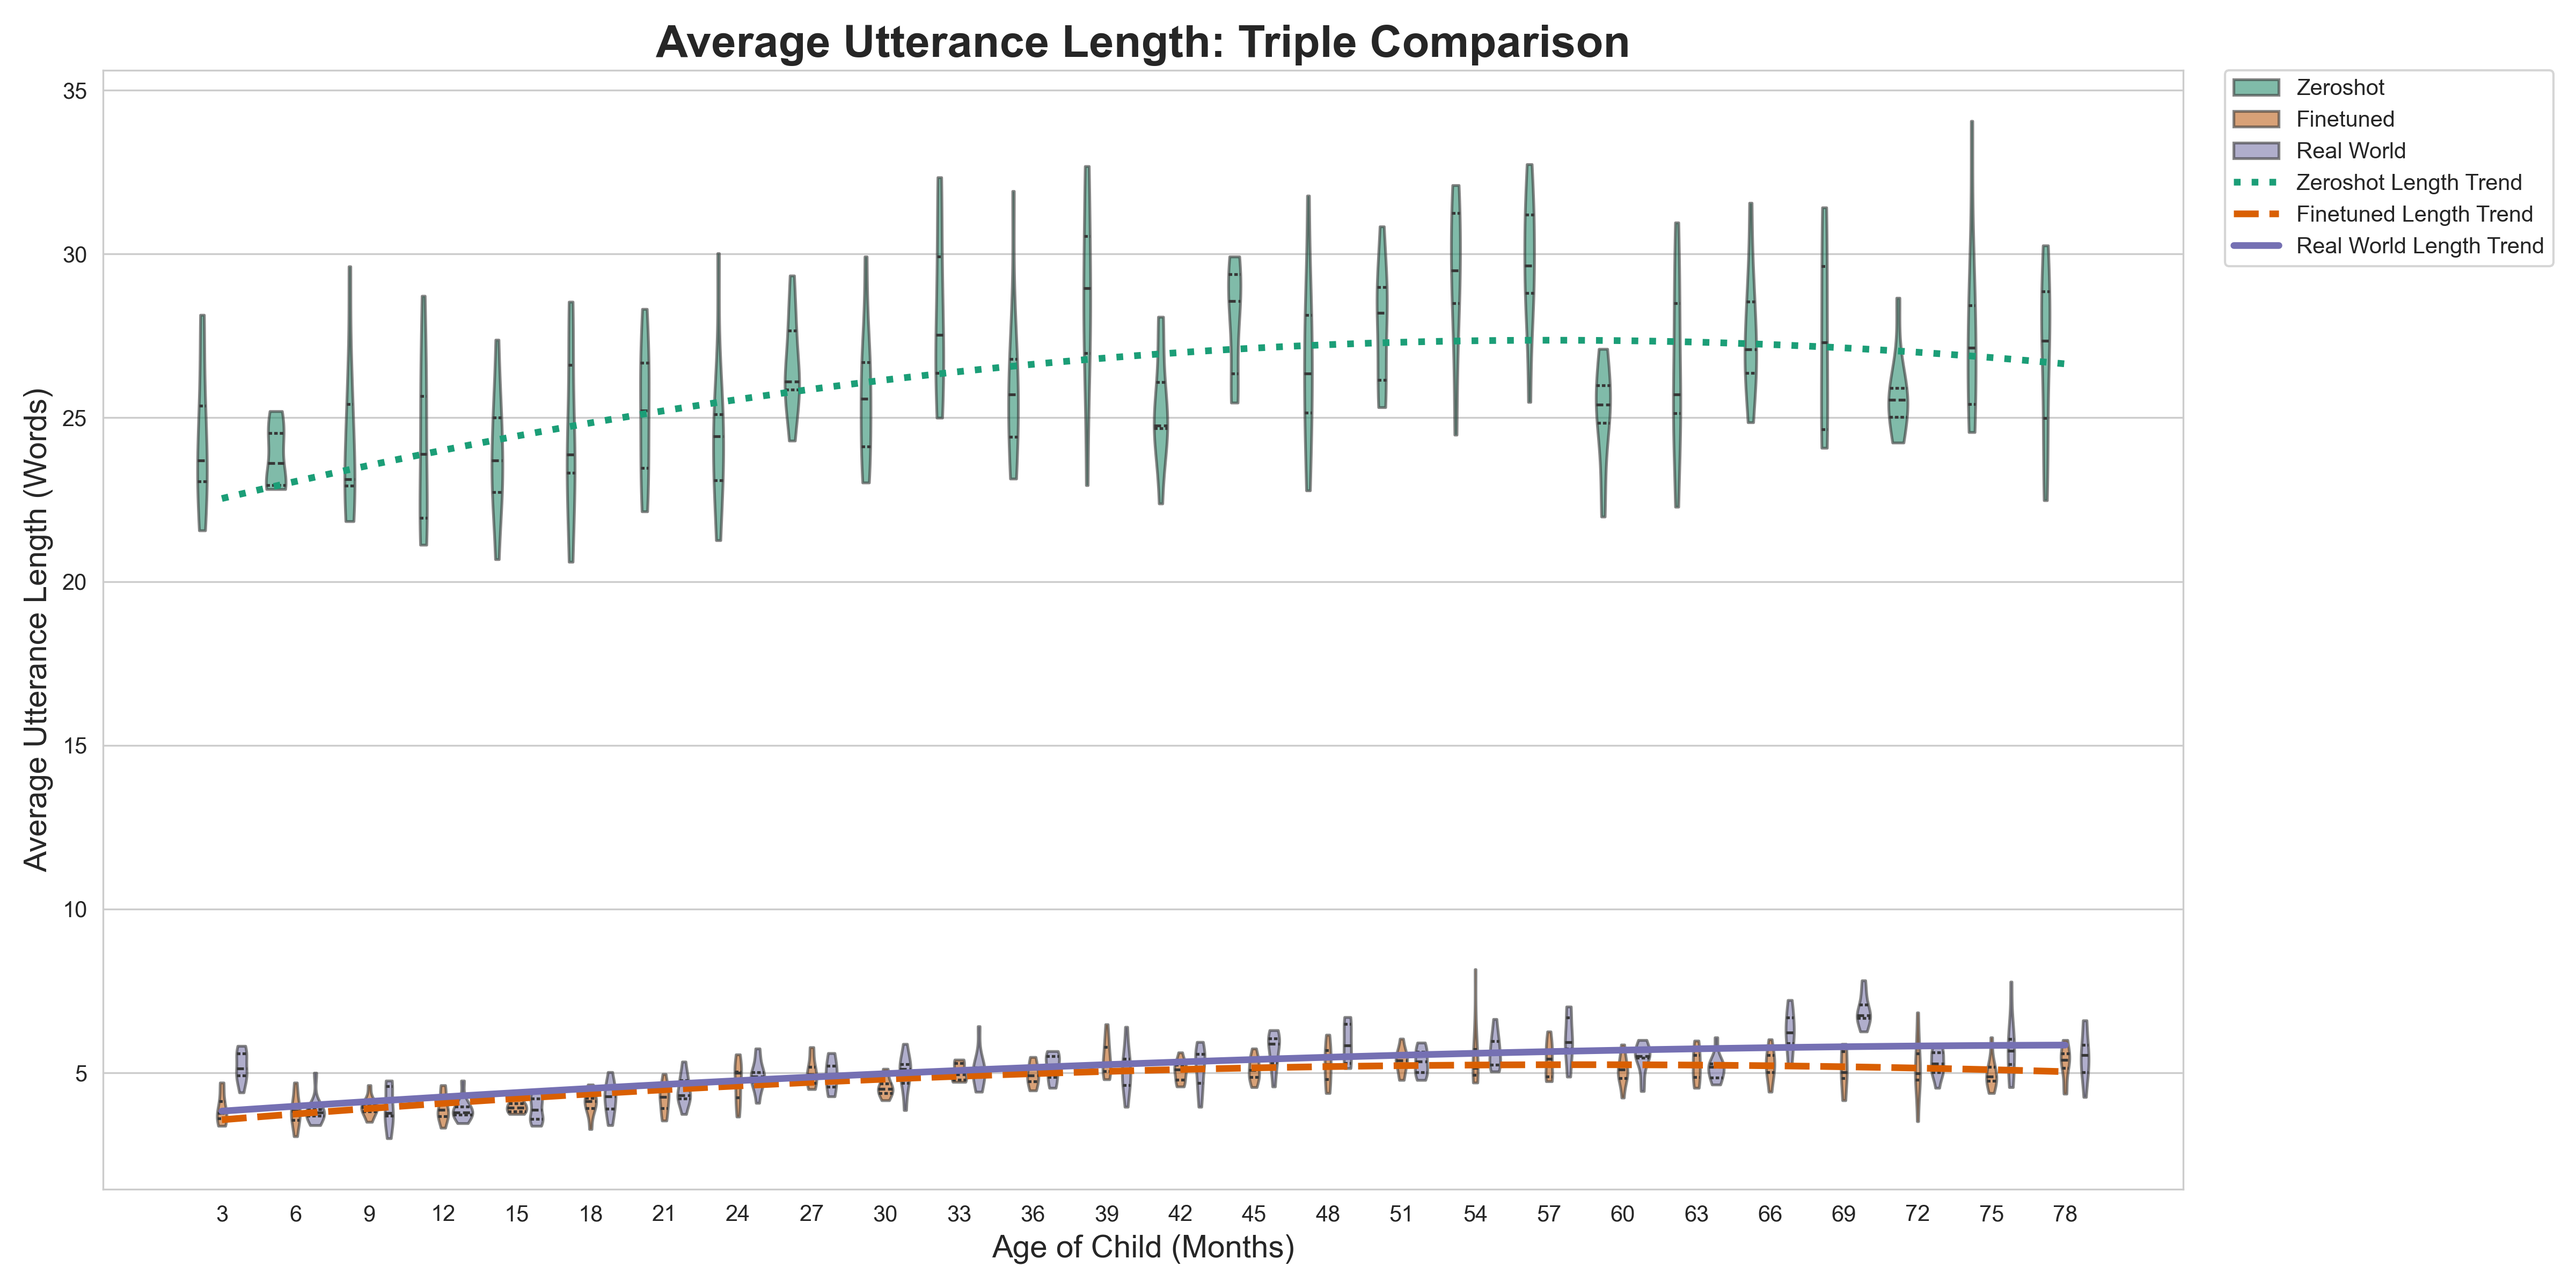
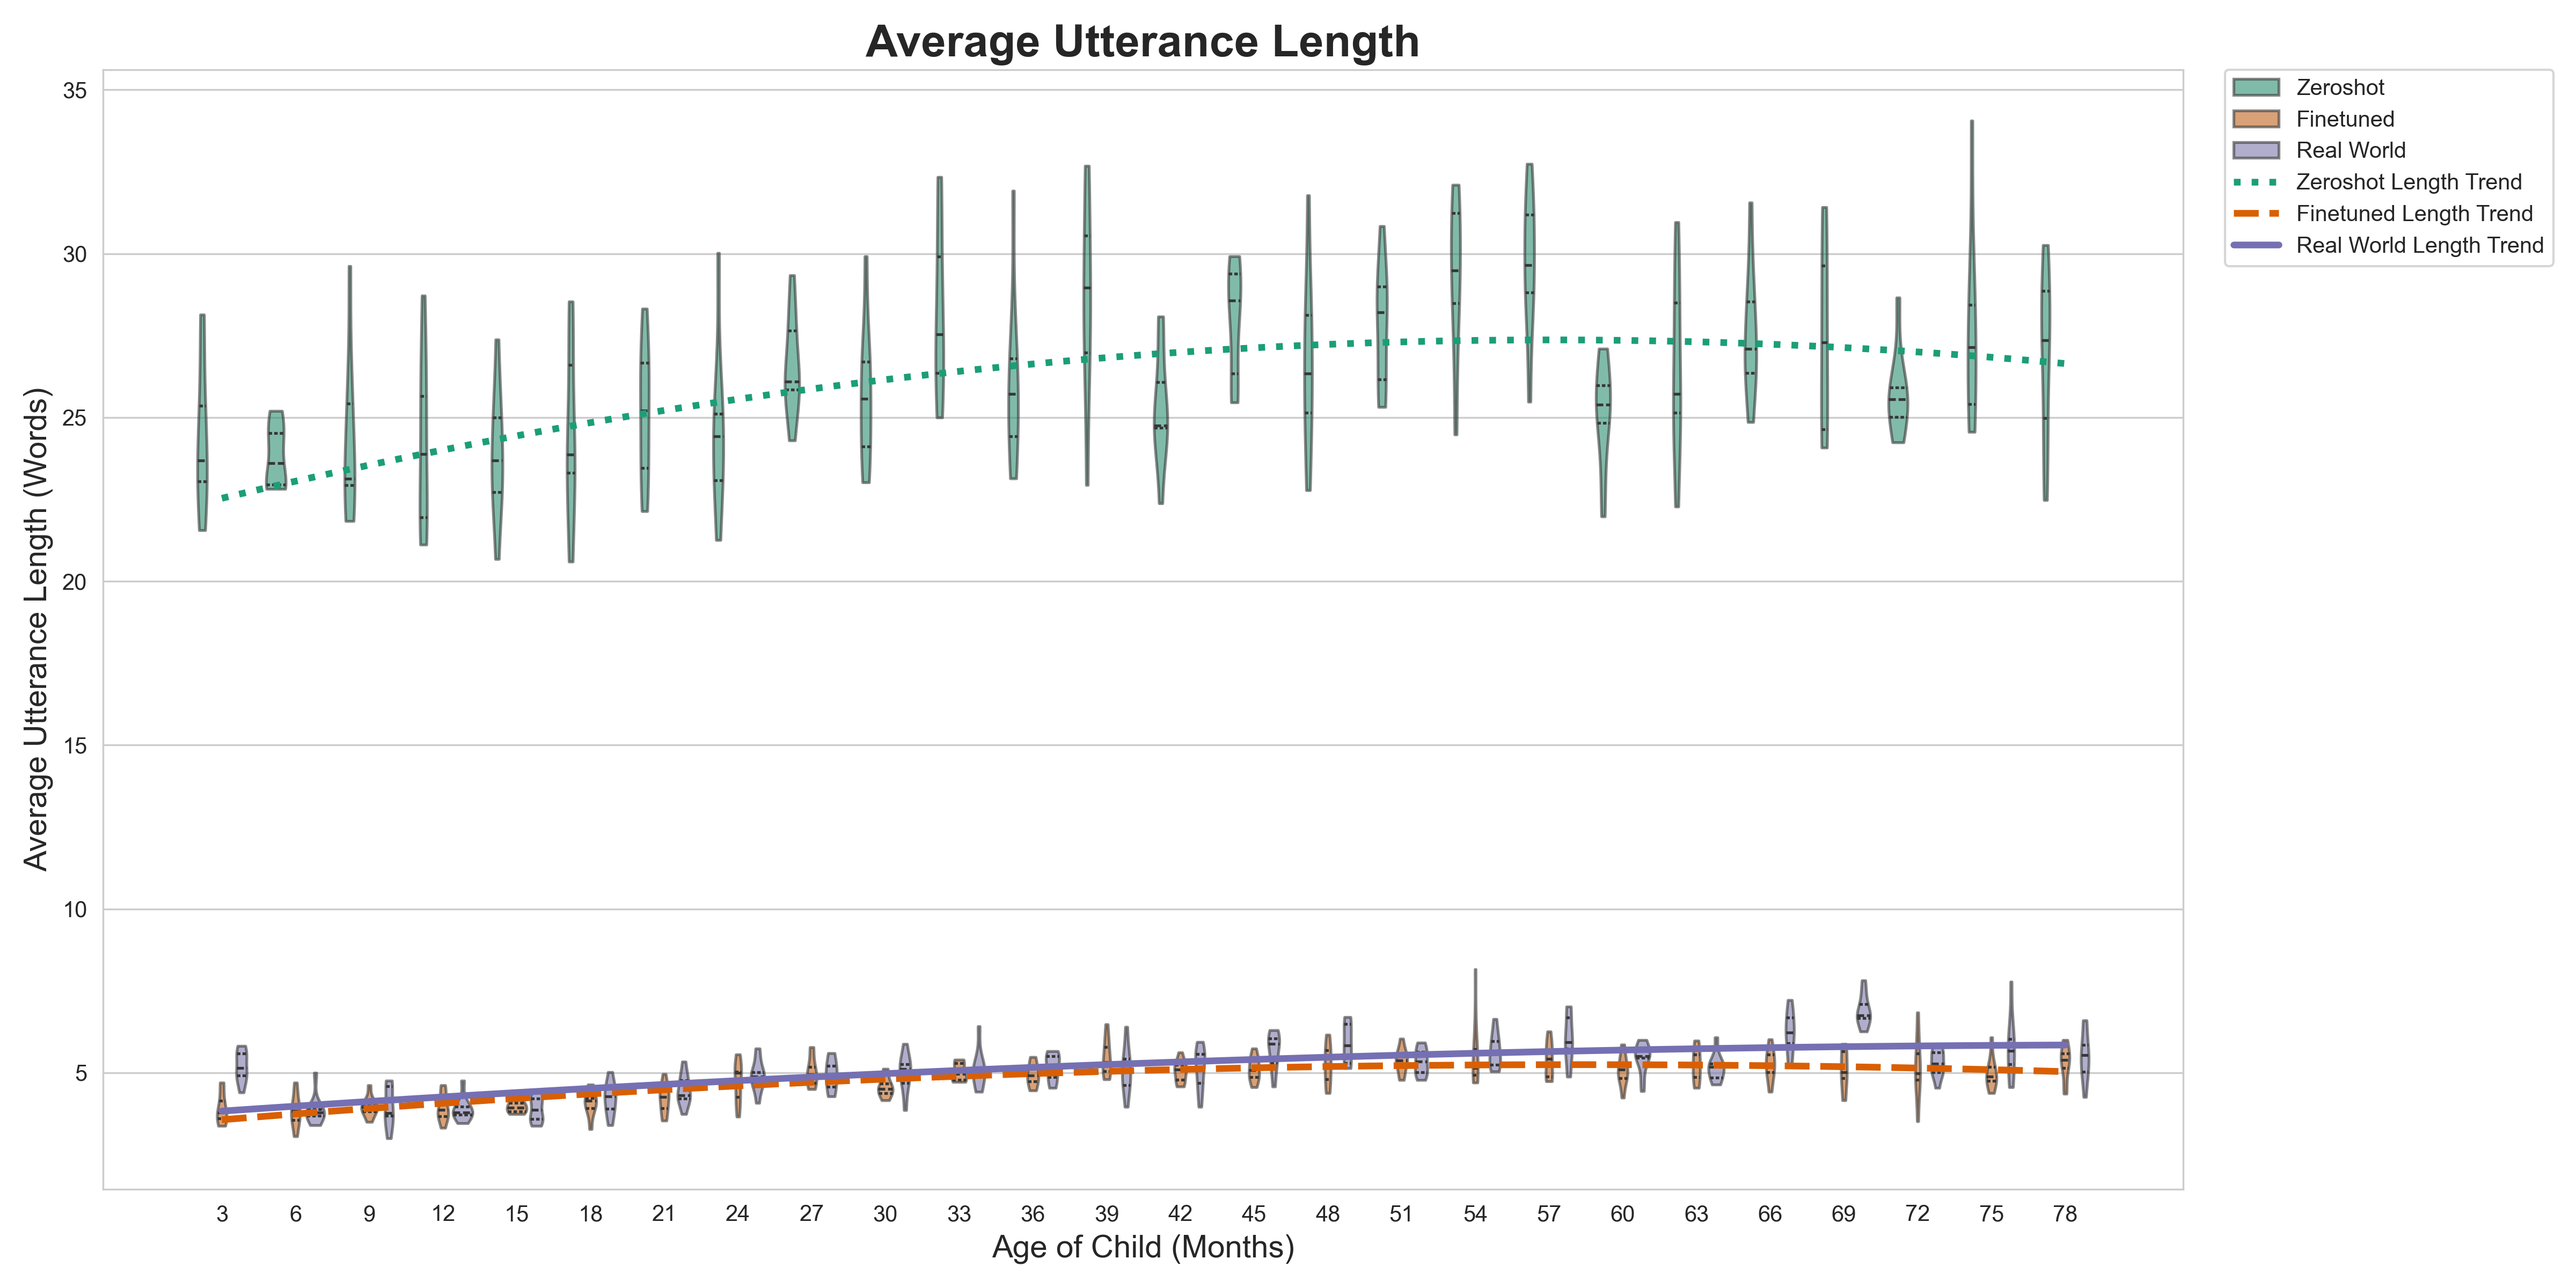
perplexity plot fixed and added to triple_plot.py

Changed region(s): [[0.25, 0.0, 0.625, 0.0625]]

diff --git a/triple_plot.py b/triple_plot.py
@@ -6,12 +6,12 @@ import re
 import os
 
 # --- 1. CONFIGURATION ---
-# Replace these with your actual file paths
 paths = {
     "Zeroshot": "combined_csv_files/combined_zero_shot_results.csv",
     "Finetuned": "combined_csv_files/combined_fine_tuned_results.csv",
     "Real World": "combined_csv_files/combined_real_world_results.csv"
 }
+ppl_input_csv = "perplexity_results_comparison.csv"
 output_dir = "plots"
 if not os.path.exists(output_dir):
     os.makedirs(output_dir)
@@ -20,8 +20,9 @@ valid_ages = list(range(3, 79, 3)) # Months (3, 6, 9... 78)
 group_size = 50  # Number of sentences to group together for TTR calculation (sliding window)
 order = 2        # 2nd order polynomial for the growth curve
 
-# Official Palette (High-Contrast, Colorblind-Friendly)
+# Official Palette (High-Contrast, Colorblind-Friendly) and Line Styles for Trends
 palette = {"Zeroshot": "#1b9e77", "Finetuned": "#d95f02", "Real World": "#7570b3"}
+line_styles = {"Zeroshot": ":", "Finetuned": "--", "Real World": "-"}
 
 def calculate_group_ttr(text_list):
     """Calculates TTR for a concatenated block of sentences."""
@@ -87,12 +88,12 @@ for label in paths.keys():
         
         # Plot smooth curve
         x_smooth = np.linspace(0, len(valid_ages)-1, 100)
-        line_style = ":" if label == "Zeroshot" else "--" if label == "Finetuned" else "-"
+        line_style = line_styles.get(label, "-")
         plt.plot(x_smooth, p(x_smooth), linestyle=line_style, color=palette[label], 
                  linewidth=3, label=f"{label} Trend")
 
 # C. Formatting
-plt.title("Lexical Diversity (TTR): Triple Comparison", fontsize=20, fontweight='bold')
+plt.title("Lexical Diversity (TTR)", fontsize=20, fontweight='bold')
 plt.xlabel("Age of Child (Months)", fontsize=14)
 plt.ylabel("Type-Token Ratio (TTR)", fontsize=14)
 plt.xticks(rotation=0)
@@ -101,7 +102,8 @@ plt.legend(bbox_to_anchor=(1.02, 1), loc='upper left', borderaxespad=0)
 
 plt.tight_layout()
 plt.savefig(f'{output_dir}/final_triple_comparison_plot.png', dpi=300)
-print("Plot successfully generated and saved.")
+print("TTR Plot successfully generated and saved.")
+plt.show()
 
 # --- 4. PLOTTING LENGTH ---
 plt.figure(figsize=(16, 8))
@@ -119,11 +121,11 @@ for label in paths.keys():
         y_values = medians.values
         z = np.polyfit(x_coords, y_values, order)
         p = np.poly1d(z)
-        line_style = ":" if label == "Zeroshot" else "--" if label == "Finetuned" else "-"
+        line_style = line_styles.get(label, "-")
         plt.plot(x_smooth, p(x_smooth), linestyle=line_style, color=palette[label], 
                  linewidth=3, label=f"{label} Length Trend")
 # C. Formatting
-plt.title("Average Utterance Length: Triple Comparison", fontsize=20, fontweight='bold')
+plt.title("Average Utterance Length", fontsize=20, fontweight='bold')
 plt.xlabel("Age of Child (Months)", fontsize=14)
 plt.ylabel("Average Utterance Length (Words)", fontsize=14)
 plt.xticks(rotation=0)
@@ -131,3 +133,53 @@ plt.legend(bbox_to_anchor=(1.02, 1), loc='upper left', borderaxespad=0)
 plt.tight_layout()
 plt.savefig(f'{output_dir}/final_length_triple_comparison_plot.png', dpi=300)
 print("Length plot successfully generated and saved.")
+plt.show()
+# --- 5. PLOTTING PERPLEXITY ---
+df_ppl = pd.read_csv(ppl_input_csv)
+# Ensure Age_Num is integer and sorted
+df_ppl['Age_Num'] = df_ppl['Age'].str.extract(r'(\d+)').astype(int)
+df_ppl = df_ppl.sort_values('Age_Num')
+
+# Create a mapping to find the violin position (0, 1, 2...) for each age
+unique_ages = sorted(df_ppl['Age_Num'].unique())
+age_to_idx = {age: i for i, age in enumerate(unique_ages)}
+
+plt.figure(figsize=(16, 8))
+sns.set_style("whitegrid")
+
+# A. Double Violin Plot for Perplexity
+# Note: Use Age_Num here so the labels are clean numbers
+ax = sns.violinplot(x="Age_Num", y="Perplexity", hue="Condition", data=df_ppl, 
+                    palette=palette, cut=0, alpha=0.6, inner="quartile")
+
+# B. Polynomial Trend Lines for Perplexity
+for condition in df_ppl['Condition'].unique():
+    subset = df_ppl[df_ppl['Condition'] == condition]
+    medians = subset.groupby('Age_Num')['Perplexity'].median().reset_index()
+    
+    # FIX: Use indices (0, 1, 2...) for the x-coordinates of the trend line
+    x_coords = medians['Age_Num'].map(age_to_idx).values
+    y_values = medians['Perplexity'].values
+    
+    # Fit the polynomial to the indices
+    coeffs = np.polyfit(x_coords, y_values, order)
+    poly_func = np.poly1d(coeffs)
+    
+    # Generate smooth lines across the index range
+    x_smooth_idx = np.linspace(0, len(unique_ages)-1, 100)
+    y_smooth = poly_func(x_smooth_idx)
+    
+    plt.plot(x_smooth_idx, y_smooth, label=f"{condition} Trend", 
+             linestyle=line_styles.get(condition, "-"), color=palette[condition], linewidth=3)
+
+# C. Formatting
+plt.title("Model Perplexity Comparison", fontsize=20, fontweight='bold')
+plt.xlabel("Age of Child (Months)", fontsize=14)
+plt.ylabel("Perplexity (Log Scale)", fontsize=14)
+plt.yscale("log") # CRITICAL: Without this, the plot looks flat due to outliers
+plt.legend(title="Condition", bbox_to_anchor=(1.02, 1), loc='upper left', borderaxespad=0)
+plt.tight_layout()
+
+plt.savefig(os.path.join(output_dir, "perplexity_triple_comparison.png"), dpi=300)
+print(f"Fixed Perplexity plot saved to {output_dir}")
+plt.show()
